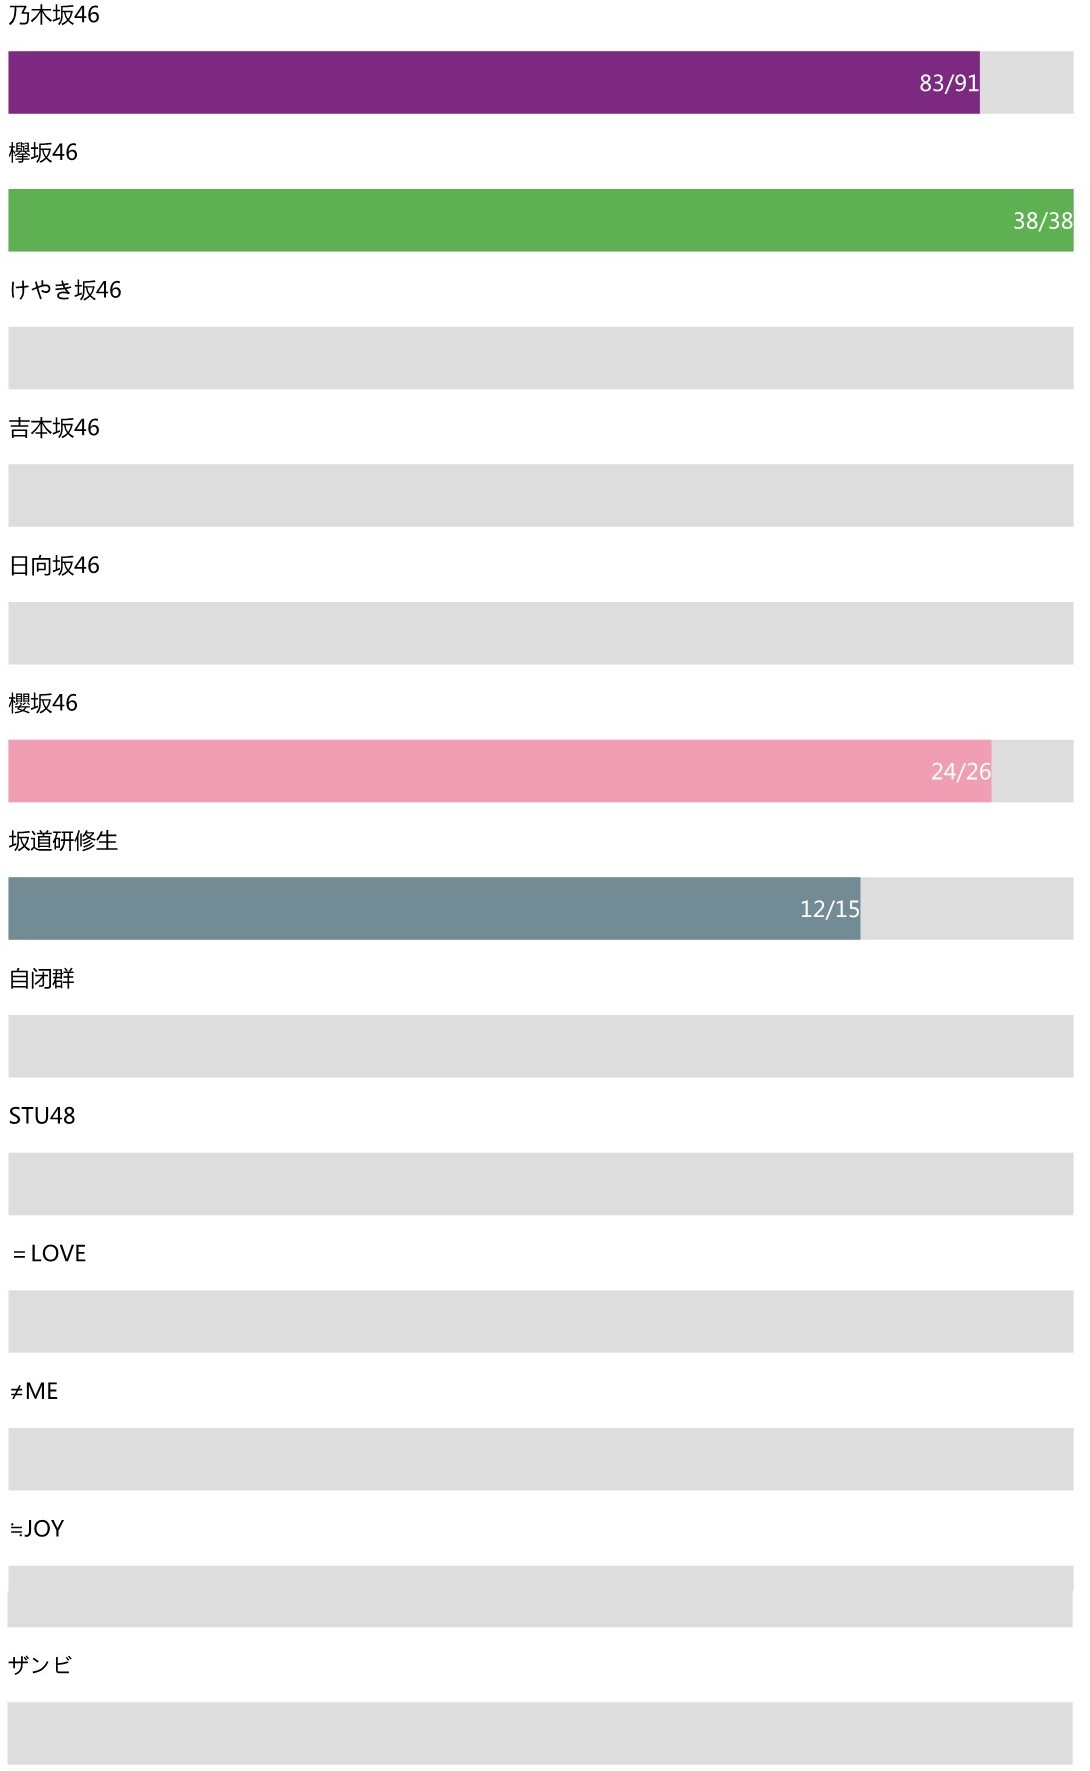
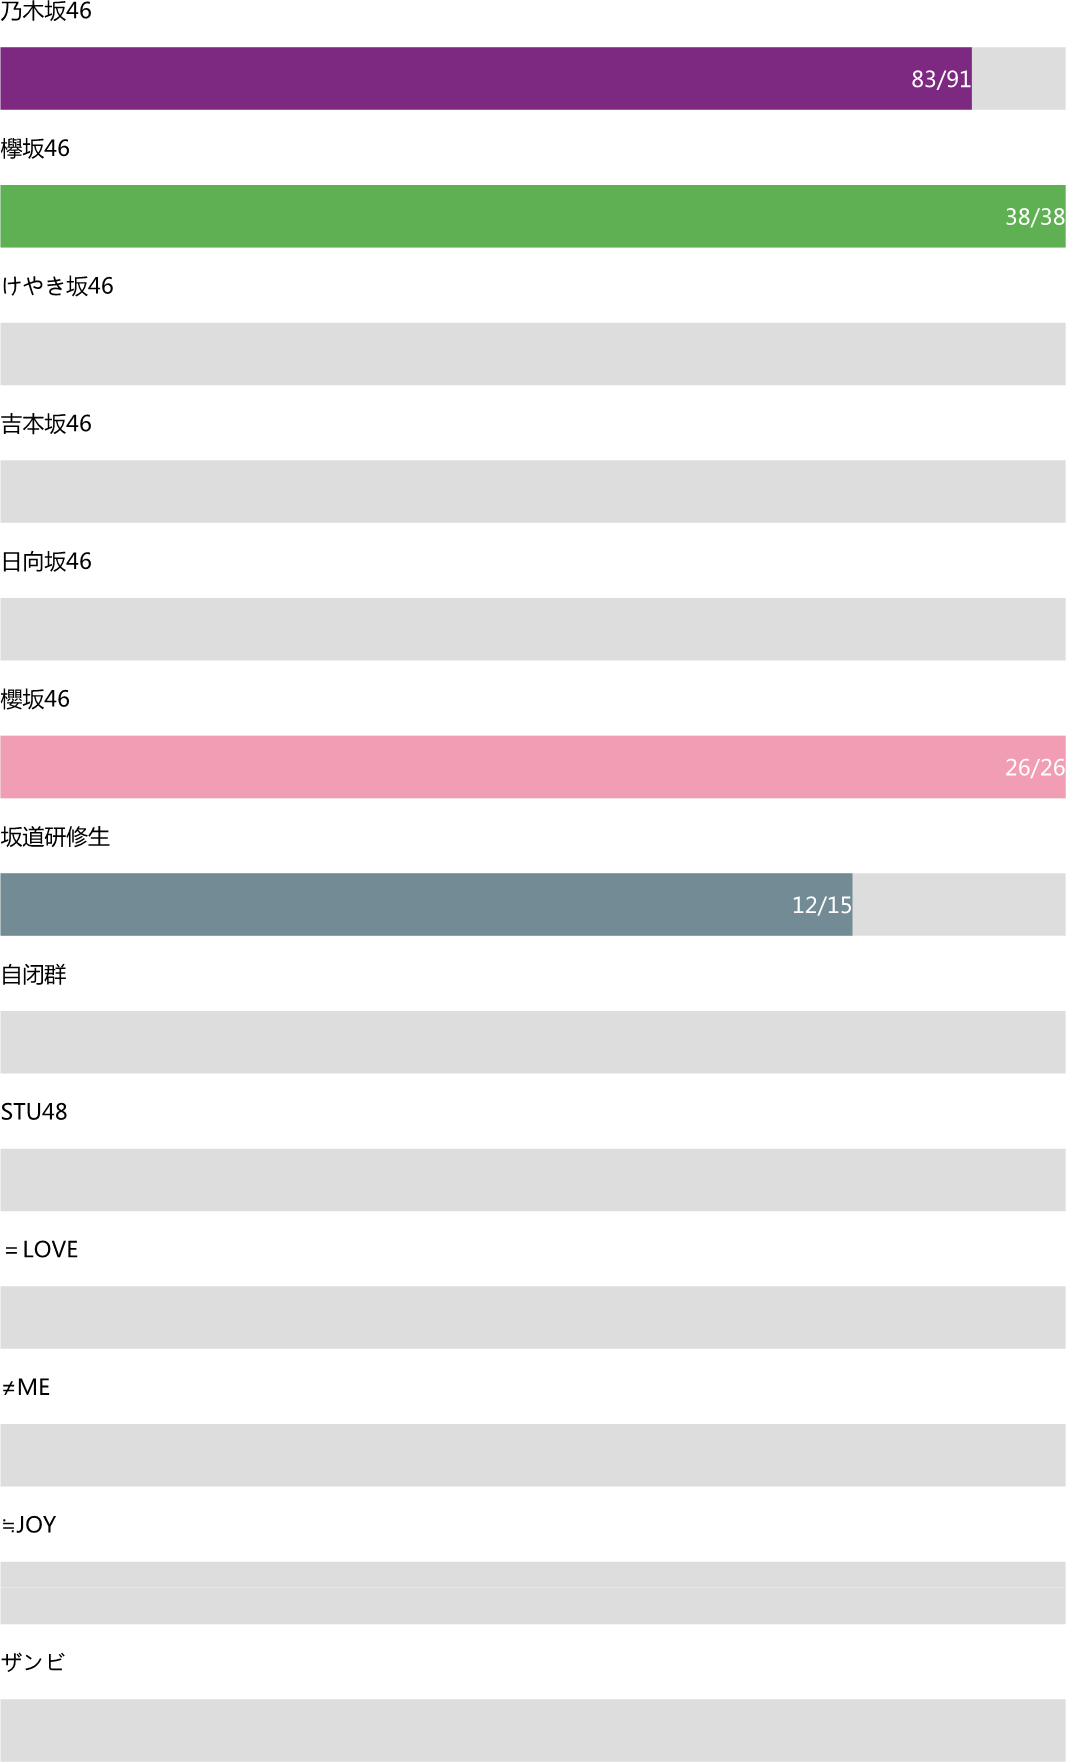
Upload by PicGo

diff --git a/渲染.md b/渲染.md
@@ -1,0 +1,95 @@
+<style>
+
+.container {
+  width: 100%;
+  height: 40px;
+  background-color: #DDDDDD;
+}
+
+.skills {
+  text-align: right;
+  /* padding-right: 20px; */
+  line-height: 40px;
+  color: white;
+}
+
+.Nogizaka {width: 91.2%; background-color: #7D2982;}
+.Keyakizaka {width: 100%; background-color: #5EB054;}
+.HiraganaKeyakizaka46 {width: 0%; background-color: #5EB054;}
+.Yoshimotozaka46 {width: 0%; background-color: #E84709;}
+.Hinatazaka46 {width: 0%; background-color: #7CC7E8;}
+.Sakurazaka {width: 100%; background-color: #F19DB5;}
+.SakamichiKenshusei {width: 80%; background-color: #738B95;}
+.AutisticGroup {width: 0%; background-color: #8A807A;}
+.STU48 {width: 0%; background-color: #CCEBFF;}
+.EqualLove {width: 0%; background-color: #EA6C81;}
+.NotEqualMe {width: 0%; background-color: #79CCBD;}
+.NearlyEqualJoy {width: 0%; background-color: #FFDF6A;}
+.Zambi {width: 0%; background-color: #412BB6;}
+
+</style>
+
+<p>乃木坂46</p>
+<div class="container">
+  <div class="skills Nogizaka">83/91</div>
+</div>
+
+<p>欅坂46</p>
+<div class="container">
+  <div class="skills Keyakizaka">38/38</div>
+</div>
+
+<p>けやき坂46</p>
+<div class="container">
+  <div class="skills HiraganaKeyakizaka46"></div>
+</div>
+
+<p>吉本坂46</p>
+<div class="container">
+  <div class="skills Yoshimotozaka46"></div>
+</div>
+
+<p>日向坂46</p>
+<div class="container">
+  <div class="skills Hinatazaka46"></div>
+</div>
+
+<p>櫻坂46</p>
+<div class="container">
+  <div class="skills Sakurazaka">26/26</div>
+</div>
+
+<p>坂道研修生</p>
+<div class="container">
+  <div class="skills SakamichiKenshusei">12/15</div>
+</div>
+
+<p>自闭群</p>
+<div class="container">
+  <div class="skills AutisticGroup"></div>
+</div>
+
+<p>STU48</p>
+<div class="container">
+  <div class="skills STU48"></div>
+</div>
+
+<p>＝LOVE</p>
+<div class="container">
+  <div class="skills EqualLove"></div>
+</div>
+
+<p>≠ME</p>
+<div class="container">
+  <div class="skills NotEqualMe"></div>
+</div>
+
+<p>≒JOY</p>
+<div class="container">
+  <div class="skills NearlyEqualJoy"></div>
+</div>
+
+<p>ザンビ</p>
+<div class="container">
+  <div class="skills Zambi"></div>
+</div>
